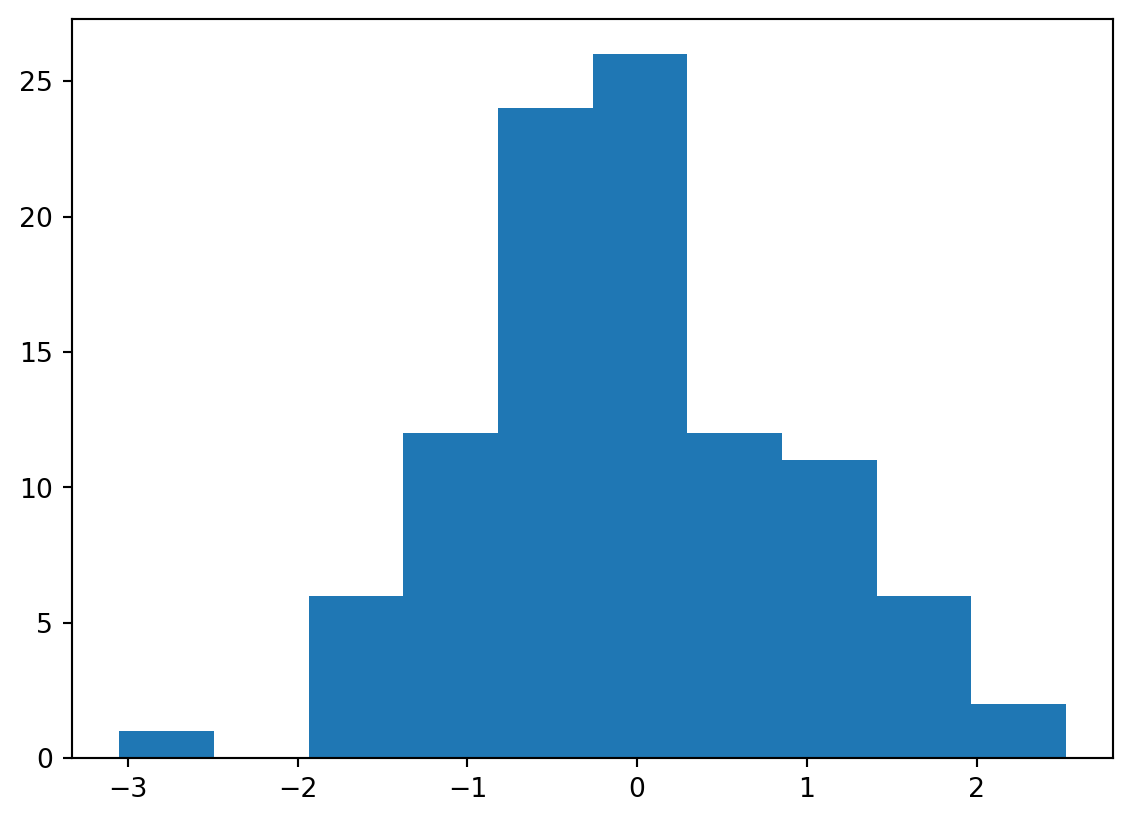
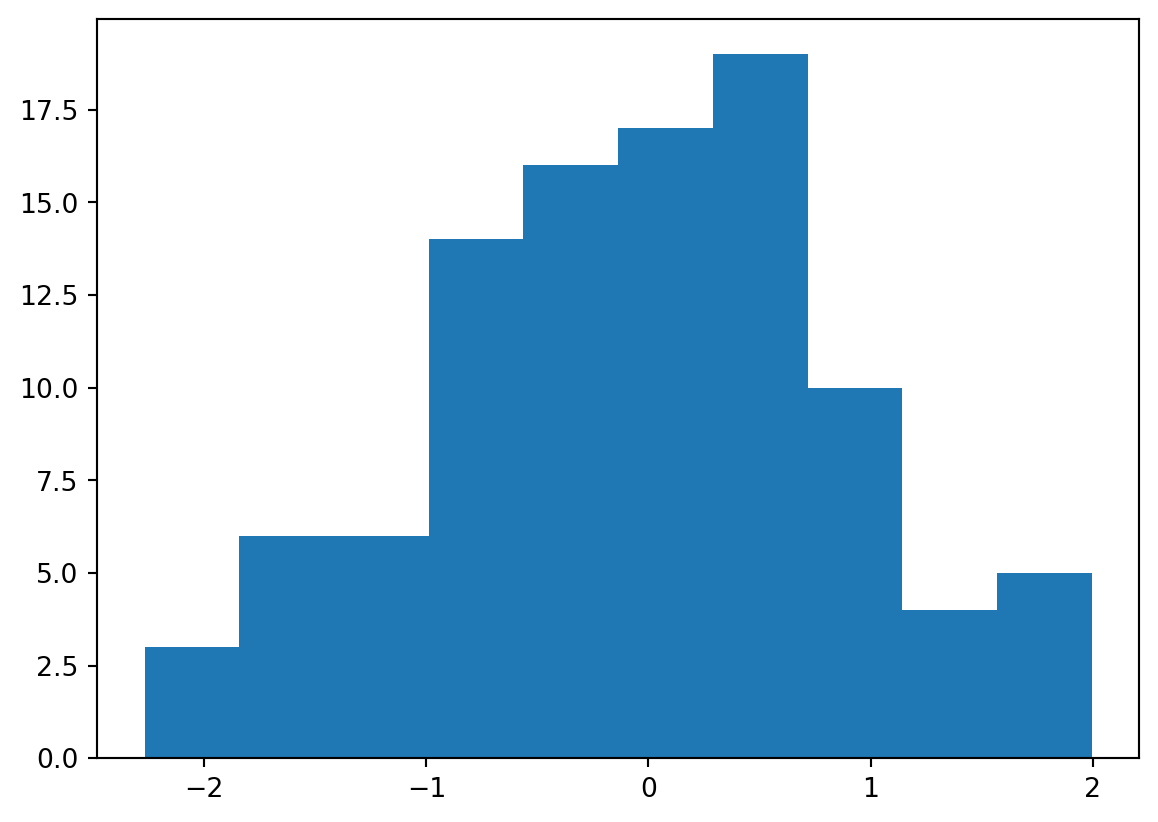
Built site for gh-pages

diff --git a/index.html b/index.html
@@ -290,7 +290,7 @@ Course enrollment for undergraduates
 </div>
 </div>
 <div class="callout-body-container callout-body">
-<p>If you are an undergraduate who wants to take this course, please fill out the <a href="https://docs.google.com/forms/d/e/1FAIpQLScWQLQ_gS7ZYdRZQrvhabRMO_zmdNR6JtHyTk3Vw30QtPbnJA/viewform?usp=sf_link">permission code request form</a> to let me know about your background. Anyone considering taking the course is encouraged to read the <a href="./faq.html">frequently asked questions</a> regarding preparation and review materials.</p>
+<p>If you are an undergraduate who wants to take this course, please fill out the <a href="https://docs.google.com/forms/d/e/1FAIpQLScn2Uw0Wl5ARzoSqL-MWXW2dC_0gFHisxj0Et94JMdABm7YRg">permission code request form</a> to let me know about your background. Anyone considering taking the course is encouraged to read the <a href="./faq.html">frequently asked questions</a> regarding preparation and review materials.</p>
 </div>
 </div>
 <div id="listing-buttons" class="quarto-listing quarto-listing-container-custom">

diff --git a/units/unit3.html b/units/unit3.html
@@ -276,10 +276,10 @@ $$
 <span id="cb1-6"><a href="#cb1-6" aria-hidden="true" tabindex="-1"></a>np.mean(x)</span></code><button title="Copy to Clipboard" class="code-copy-button"><i class="bi"></i></button></pre></div>
 </details>
 <div class="cell-output cell-output-display">
-<p><img src="unit3_files/figure-html/cell-2-output-1.png" width="566" height="411"></p>
+<p><img src="unit3_files/figure-html/cell-2-output-1.png" width="579" height="411"></p>
 </div>
 <div class="cell-output cell-output-display" data-execution_count="1">
-<pre><code>-0.047365171182417745</code></pre>
+<pre><code>-0.059704139754154915</code></pre>
 </div>
 </div>
 </section>

diff --git a/units/unit1.html b/units/unit1.html
@@ -279,10 +279,10 @@ $$
 <span id="cb1-6"><a href="#cb1-6" aria-hidden="true" tabindex="-1"></a>np.mean(x)</span></code><button title="Copy to Clipboard" class="code-copy-button"><i class="bi"></i></button></pre></div>
 </details>
 <div class="cell-output cell-output-display">
-<p><img src="unit1_files/figure-html/cell-2-output-1.png" width="566" height="413"></p>
+<p><img src="unit1_files/figure-html/cell-2-output-1.png" width="566" height="411"></p>
 </div>
 <div class="cell-output cell-output-display" data-execution_count="1">
-<pre><code>-0.029937108872545595</code></pre>
+<pre><code>-0.2681322477236623</code></pre>
 </div>
 </div>
 </section>
